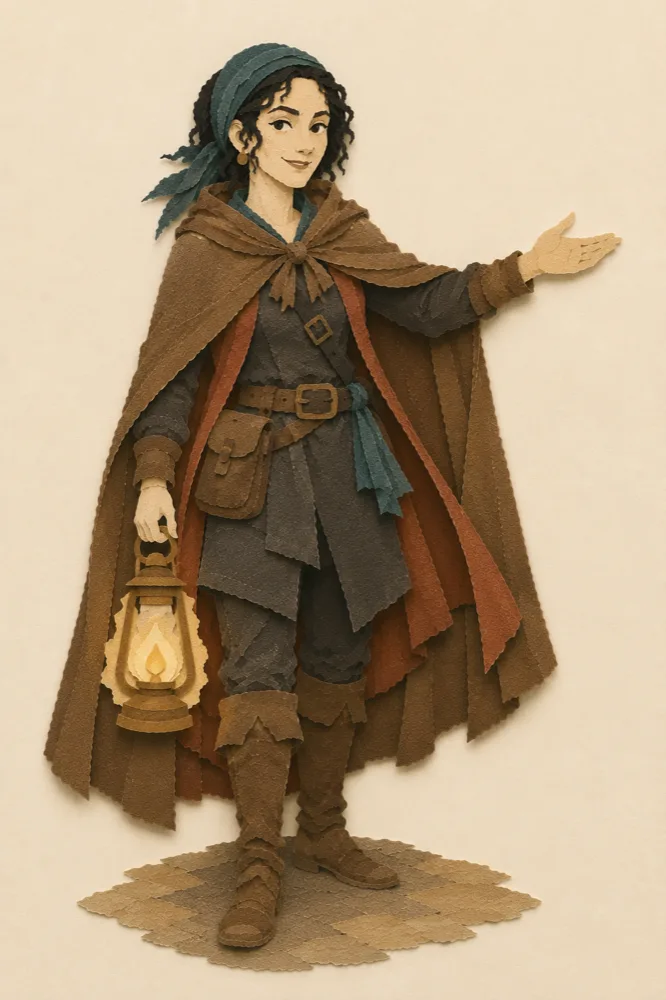
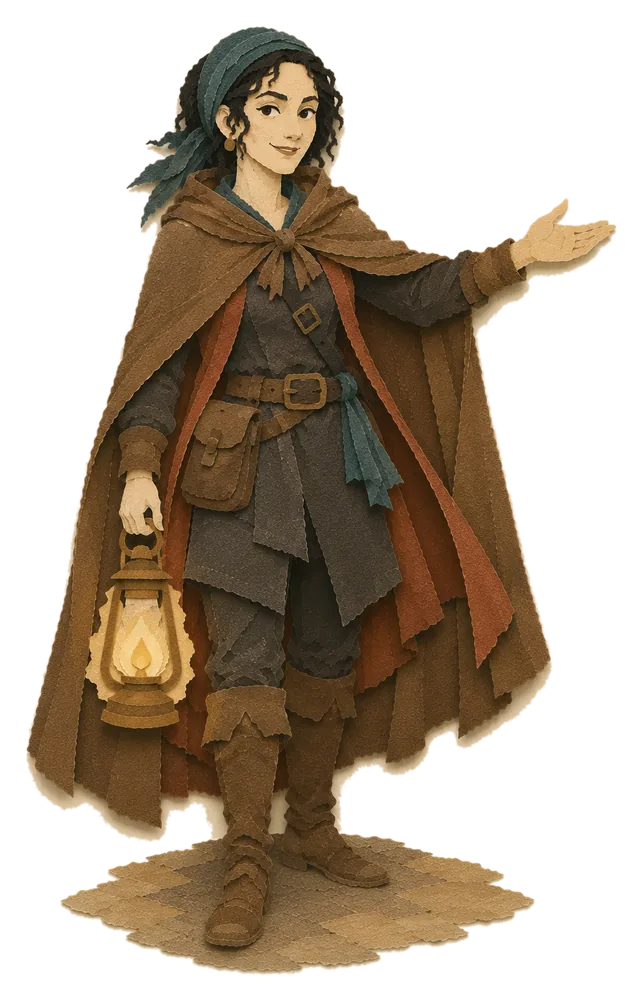
Spell & Check: cut-out art set, stranded-reveal fix, first-look dedupe (v0.144.0)
- All commissioned cut-paper art re-shipped with backgrounds removed
  (transparent webp) so cutouts sit directly on the paper — no more
  mismatched cream rectangles behind Galley, the busts, or the crests.
- Every pose/crest/spot now has its own commissioned art: beckoning,
  waving, lost, the five crests, steps, raven, lantern — plus the new
  whole-party group shot on /party and a matching og.png.
- Reveal-on-scroll rebuilt on IntersectionObserver: sections could stay
  invisible forever when no scroll event fired (large windows, resizes,
  restored scroll positions).
- The free first-look dedupes repeat snags across lanes (exact and
  substring containment), so no scrap is pinned up twice.
- Long quoted scraps wrap instead of overflowing the card; /favicon.ico
  answered instead of 404ing every visit.

diff --git a/app/static/sc-shared.js b/app/static/sc-shared.js
@@ -19,29 +19,27 @@
      <img> — no render-code touched. Files live in /assets/art/. */
   var ART_BASE = '/assets/art/';
   var ART = {
-    // Paper-cutout placeholders (hand-coded SVG; recolour with the skin tint).
-    // Swap any value to a commissioned .png/.webp and the loader renders an
-    // <img> instead — no render-code change. Busts are square; poses 2:3;
-    // scenes 2:1; step spots 2:1.
-    // Commissioned cut-paper portraits (busts, square, opaque cream ground).
+    // Commissioned cut-paper art, background removed — every cutout sits
+    // directly on the page's paper (transparent webp). Busts are square;
+    // poses/figures ~2:3; scenes, steps, and the group shot are full-bleed.
     galley: 'galley.webp',
     pip: 'pip.webp', bram: 'bram.webp', maple: 'maple.webp',
     cinder: 'cinder.webp', sage: 'sage.webp', lark: 'lark.webp',
-    // Galley's poses. beckoning/waving reuse the nearest commissioned pose
-    // until their own art lands; lost is still a hand-coded placeholder.
+    // Galley's poses — each now has its own commissioned cutout.
     galleyHero: 'galley-hero.webp', galleyPresenting: 'galley-presenting.webp',
-    galleyReading: 'galley-reading.webp', galleyBeckoning: 'galley-presenting.webp',
-    galleyWaving: 'galley-hero.webp', galleyLost: 'galley-lost.svg',
+    galleyReading: 'galley-reading.webp', galleyBeckoning: 'galley-beckoning.webp',
+    galleyWaving: 'galley-waving.webp', galleyLost: 'galley-lost.webp',
     // Party full-body puppets (the bench).
     figPip: 'fig-pip.webp', figBram: 'fig-bram.webp', figMaple: 'fig-maple.webp',
     figCinder: 'fig-cinder.webp', figSage: 'fig-sage.webp', figLark: 'fig-lark.webp',
-    // Diorama scene + how-it-works spots (spots still placeholders) + odds/ends.
+    // Diorama scenes, how-it-works spots, the whole-party group shot, odds/ends.
     sceneHills: 'scene-hills.webp', sceneCamp: 'scene-camp.webp', sceneGrass: 'scene-grass.webp',
-    stepManuscript: 'step-manuscript.svg', stepReading: 'step-reading.svg', stepTracked: 'step-tracked.svg',
-    raven: 'raven.svg', lantern: 'lantern.svg',
-    crestSpellcheck: 'crest-spellcheck.svg', crestTypohunt: 'crest-typohunt.svg',
-    crestProofread: 'crest-proofread.svg', crestDeep: 'crest-deep.svg',
-    crestCampaign: 'crest-campaign.svg',
+    stepManuscript: 'step-manuscript.webp', stepReading: 'step-reading.webp', stepTracked: 'step-tracked.webp',
+    party: 'party.webp',
+    raven: 'raven.webp', lantern: 'lantern.webp',
+    crestSpellcheck: 'crest-spellcheck.webp', crestTypohunt: 'crest-typohunt.webp',
+    crestProofread: 'crest-proofread.webp', crestDeep: 'crest-deep.webp',
+    crestCampaign: 'crest-campaign.webp',
     ornamentDivider: 'ornament-divider.svg', ornamentCorner: 'ornament-corner.svg',
     dropcap: 'dropcap-frame.svg', favicon: 'favicon.svg', og: 'og.svg'
   };
@@ -444,23 +442,26 @@
      Opt-in and progressive: <html> gets .js-motion so the reveal hidden-state
      only exists when JS runs; a no-JS page stays fully visible. All movement is
      transform/opacity, and the CSS honours prefers-reduced-motion. */
-  var revealScheduled = false;
   function vh() { return window.innerHeight || document.documentElement.clientHeight || 0; }
-  function checkReveals() {
-    revealScheduled = false;
-    var line = vh() * 0.9, left = 0;
+  /* One observer reveals blocks however they reach the viewport — scrolling,
+     a window resize, layout settling as images land. A scroll-line check
+     alone stranded already-in-view sections invisible whenever no scroll
+     event ever fired (large windows, resizes, restored positions). */
+  var revealIO = null;
+  function watchReveals() {
+    if (!revealIO && 'IntersectionObserver' in window) {
+      revealIO = new IntersectionObserver(function (entries) {
+        entries.forEach(function (en) {
+          if (!en.isIntersecting) return;
+          en.target.classList.add('in');
+          revealIO.unobserve(en.target);
+        });
+      }, { threshold: 0.05 });
+    }
     document.querySelectorAll('[data-reveal]:not(.in)').forEach(function (el) {
-      // top < line catches both entering AND already-scrolled-past elements
-      // (top < 0), so anchor/keyboard jumps never strand a hidden block.
-      if (el.getBoundingClientRect().top < line) el.classList.add('in');
-      else left++;
+      if (revealIO) revealIO.observe(el);
+      else el.classList.add('in');   // no observer support: never hide content
     });
-    if (left === 0) window.removeEventListener('scroll', scheduleReveals);
-  }
-  function scheduleReveals() {
-    if (revealScheduled) return;
-    revealScheduled = true;
-    requestAnimationFrame(checkReveals);
   }
   function tagReveal(el, delay) {
     if (el.hasAttribute('data-reveal')) return;
@@ -484,8 +485,7 @@
       if (el.closest('.members, .tiers, .gallery, .strip')) return;
       tagReveal(el, 0);
     });
-    window.addEventListener('scroll', scheduleReveals, { passive: true });
-    checkReveals();
+    watchReveals();
   }
   function initParallax() {
     if (prefersReduce()) return;

diff --git a/app/static/sc-shared.css b/app/static/sc-shared.css
@@ -307,7 +307,7 @@ a:hover{color:var(--accent-hot);text-decoration-color:var(--accent-hot)}
 .artwork .frame{fill:none;stroke:currentColor;stroke-width:2.4}
 .artwork .frame-in{fill:none;stroke:currentColor;stroke-width:1;opacity:.55}
 .art-figure{display:block;color:var(--ink)}
-/* Commissioned art is opaque cream; show it whole and let its ground blend. */
+/* Commissioned cutouts carry alpha — they sit straight on the paper. */
 .art-figure img{display:block;width:100%;height:auto;object-fit:contain}
 /* Square portrait frames crop-fill instead. */
 .member .sigil .art-figure img,
@@ -399,6 +399,9 @@ a:hover{color:var(--accent-hot);text-decoration-color:var(--accent-hot)}
 .scene-band{position:relative;height:clamp(180px,24vw,300px);overflow:hidden}
 .scene-band .art-figure{display:block;width:100%;height:100%}
 .scene-band .art-figure img{width:100%;height:100%;object-fit:cover;object-position:50% 92%}
+/* The whole-party group shot on /party — taller band, faces centred. */
+.scene-band.party-band{height:clamp(220px,30vw,380px);margin-top:var(--s3);box-shadow:var(--lift)}
+.scene-band.party-band .art-figure img{object-position:50% 58%}
 @media (max-width:760px){
   .curtain .cast{grid-template-columns:1fr;gap:var(--s2)}
   .curtain-galley{max-width:220px;order:-1;justify-self:start}

diff --git a/app/static/sc-quote.html b/app/static/sc-quote.html
@@ -90,9 +90,11 @@
   .explain p{margin:0 0 12px;font-size:1rem;color:var(--faded)}
   .explain p b{color:var(--ink);font-weight:500}
   .examples{display:grid;gap:6px}
-  .ex{display:flex;gap:10px;align-items:baseline;font-size:.9rem}
-  .ex .from{font-family:var(--mono);font-size:.8rem;color:var(--accent);text-decoration:line-through;text-decoration-thickness:1px;white-space:nowrap}
-  .ex .to{font-family:var(--mono);font-size:.8rem;color:var(--good);white-space:nowrap}
+  .ex{display:flex;gap:10px;align-items:baseline;font-size:.9rem;flex-wrap:wrap}
+  .ex .from{font-family:var(--mono);font-size:.8rem;color:var(--accent);text-decoration:line-through;text-decoration-thickness:1px}
+  .ex .to{font-family:var(--mono);font-size:.8rem;color:var(--good)}
+  /* Real scraps quote whole clauses — wrap them rather than run off the page. */
+  .ex .from,.ex .to{white-space:normal;overflow-wrap:anywhere;min-width:0}
   .ex .why{color:var(--dim);font-size:.8rem}
   .lanternmember .sigil{color:var(--accent)}
 

diff --git a/app/static/sc-party.html b/app/static/sc-party.html
@@ -33,6 +33,8 @@
     </div>
   </section>
 
+  <div class="scene-band party-band" aria-hidden="true"><span data-art="party"></span></div>
+
   <div class="act-label stack-m">The programme</div>
   <div class="gallery" id="gallery"></div>
 

diff --git a/app/routes/quest.py b/app/routes/quest.py
@@ -13,6 +13,7 @@ from __future__ import annotations
 import hashlib
 import json
 import logging
+import re
 import tempfile
 from pathlib import Path
 
@@ -107,6 +108,39 @@ def _sse(event: str, data: dict) -> str:
     return f"event: {event}\ndata: {json.dumps(data, ensure_ascii=False)}\n\n"
 
 
+def _scrap_key(catch: dict) -> str:
+    """A normalized identity for one first-look scrap, so the same quoted snag
+    is never pinned up twice. Keyed on the author's own words: two members
+    catching one snag is a duplicate to the reader even when their fixes are
+    phrased differently."""
+    before = str(catch.get("before") or "").lower()
+    before = re.sub(r"\s+", " ", before).strip(" \"'‘’“”.,;:!?…—–-")
+    return before
+
+
+# Below this length, containment stops meaning "same snag" — "a" lives inside
+# every sentence — so short keys only ever match exactly.
+_CONTAINS_MIN = 6
+
+
+def _dedupe_catches(catches: list[dict], seen: set[str]) -> list[dict]:
+    """Drop catches whose snag was already shown — by this lane or an earlier
+    one. A snag counts as shown when its quote matches exactly OR when one
+    quote contains the other (Pip pins up "and and", then Bram quotes the whole
+    sentence around it). Mutates `seen` so the filter spans the whole sweep."""
+    kept = []
+    for c in catches:
+        key = _scrap_key(c)
+        if not key or key in seen:
+            continue
+        if any(min(len(key), len(s)) >= _CONTAINS_MIN
+               and (key in s or s in key) for s in seen):
+            continue
+        seen.add(key)
+        kept.append(c)
+    return kept
+
+
 def register(app: FastAPI) -> None:
 
     @app.post("/api/quest/skin")
@@ -177,9 +211,10 @@ def register(app: FastAPI) -> None:
                 skin_payload = _skin_payload(result)
                 yield _sse("skin", skin_payload)
 
-                lanes, sweep_cost = [], 0.0
+                lanes, sweep_cost, seen = [], 0.0, set()
                 for lane in iter_sweep(ms.text, provider):
-                    payload = {"key": lane.key, "catches": lane.catches,
+                    payload = {"key": lane.key,
+                               "catches": _dedupe_catches(lane.catches, seen),
                                "error": lane.error}
                     lanes.append(payload)
                     if lane.cost:

diff --git a/tests/test_quest.py b/tests/test_quest.py
@@ -342,3 +342,39 @@ def test_collision_catches_borrowed_surnames(tmp_path):
         results=[ProviderResult(parsed=payload, usage=USAGE)])
     result = generate_skin(path, provider)
     assert "Maple Pomeroy" in result.alias_collisions
+
+
+def test_first_look_dedupes_repeat_snags_across_lanes():
+    """Two members quoting the same snag show it once — keyed on the author's
+    words, tolerant of quote marks, case, and spacing."""
+    from app.routes.quest import _dedupe_catches
+
+    seen: set[str] = set()
+    first = _dedupe_catches([
+        {"before": "teh door", "after": "the door", "why": "typo"},
+        {"before": '"Teh  door"', "after": "fix it", "why": "typo again"},
+    ], seen)
+    assert len(first) == 1
+    later = _dedupe_catches([
+        {"before": "TEH DOOR.", "after": "the door", "why": "typo"},
+        {"before": "a fresh snag", "after": "fixed", "why": "new"},
+        {"before": "", "after": "x", "why": "empty never shown"},
+    ], seen)
+    assert [c["before"] for c in later] == ["a fresh snag"]
+
+
+def test_first_look_dedupes_containment_between_lanes():
+    """Pip pins up the doubled word; Bram quoting the whole sentence around it
+    is the same snag to the reader and stays down. Short keys ("a") only ever
+    match exactly."""
+    from app.routes.quest import _dedupe_catches
+
+    seen: set[str] = set()
+    _dedupe_catches([{"before": "and and", "after": "and", "why": "doubled"}],
+                    seen)
+    later = _dedupe_catches([
+        {"before": "The rain stopped, and and the river rose.",
+         "after": "…and the river rose.", "why": "doubled word"},
+        {"before": "a", "after": "an", "why": "article"},
+    ], seen)
+    assert [c["before"] for c in later] == ["a"]

diff --git a/app/quest_site.py b/app/quest_site.py
@@ -178,6 +178,12 @@ def create_app() -> FastAPI:
     def healthz() -> dict:
         return {"ok": True, "version": __version__}
 
+    # Browsers ask for /favicon.ico regardless of what the pages declare;
+    # answer with the raster favicon instead of a 404 on every visit.
+    @app.get("/favicon.ico")
+    def favicon() -> FileResponse:
+        return FileResponse(static / "art" / "favicon-32.png")
+
     # The papery pages. /customize is the original candlelit party builder,
     # kept dark on purpose — the workshop, by candlelight.
     def _page(name: str) -> FileResponse:

diff --git a/docproof/__init__.py b/docproof/__init__.py
@@ -9,4 +9,4 @@ Nothing is imported here on purpose: setuptools reads `__version__` out of this
 file before the dependencies exist.
 """
 
-__version__ = "0.143.0"
+__version__ = "0.144.0"
